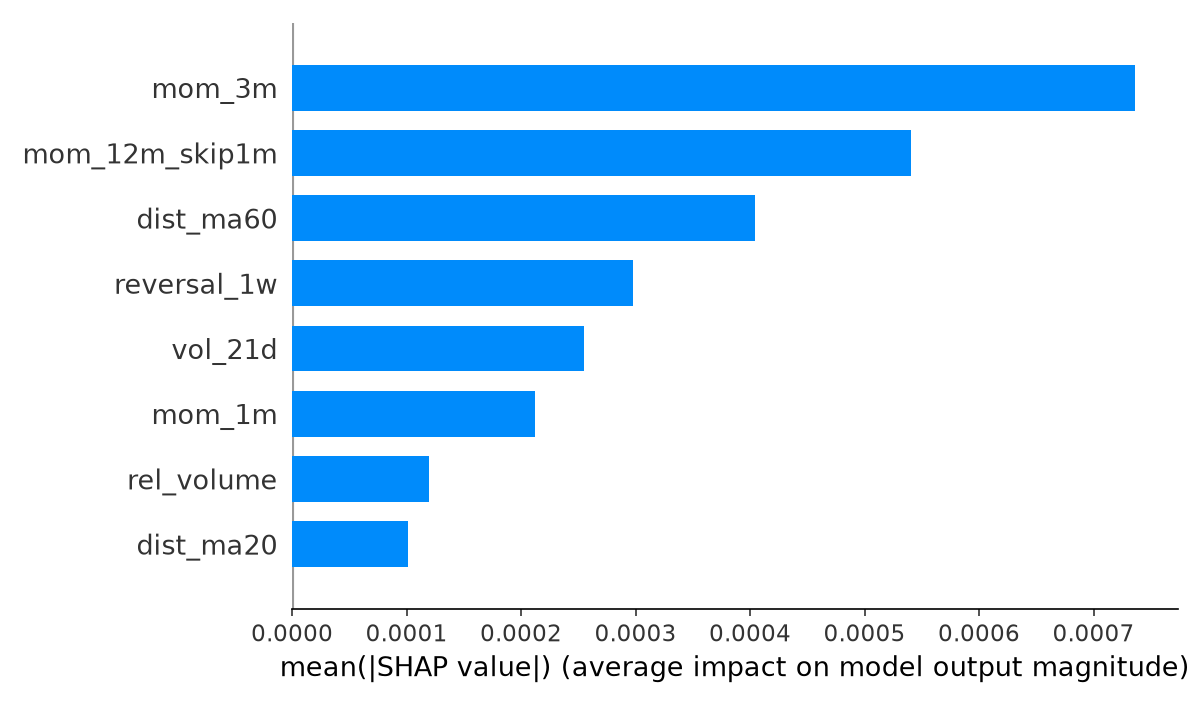
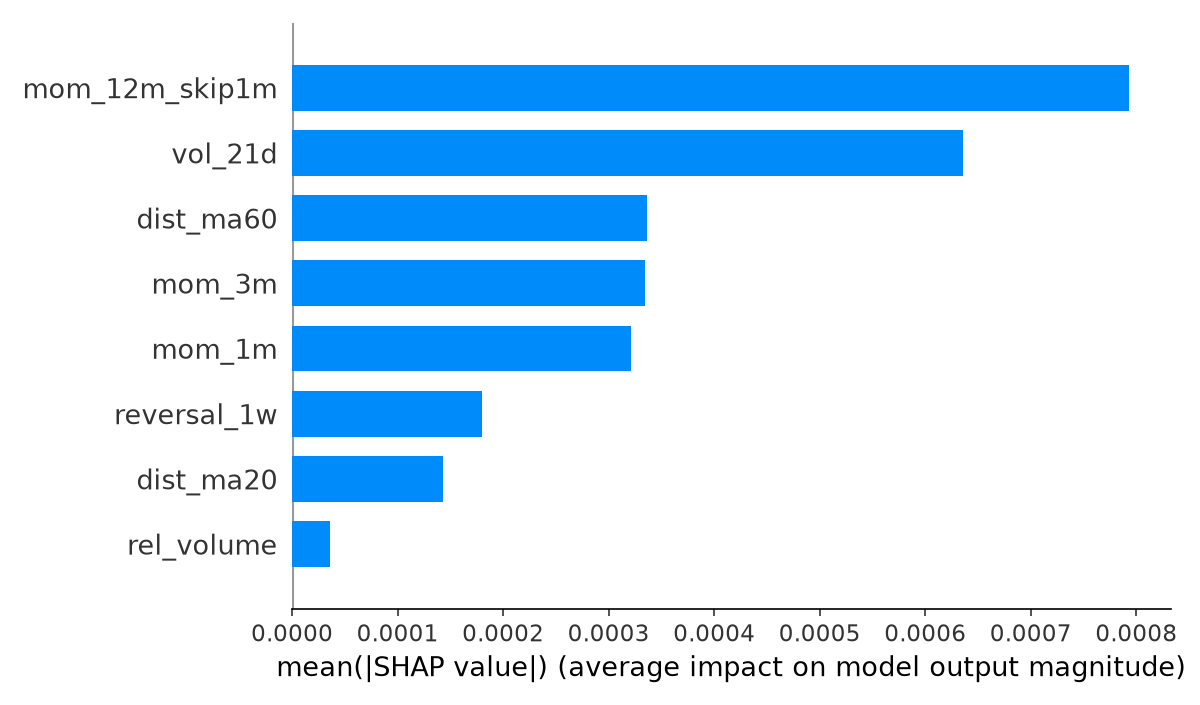
adjusting factor direction

diff --git a/factor_lib.py b/factor_lib.py
@@ -31,7 +31,7 @@ def momentum_12m_skip1m(prices: pd.DataFrame) -> pd.DataFrame:
 ## ── MEAN REVERSION FACTORS ────────────────────────────────────────
 
 def reversal_1w(prices: pd.DataFrame) -> pd.DataFrame:
-    raw = -prices.pct_change(5).shift(1)
+    raw = prices.pct_change(5).shift(1)
     return normalize(winsorize(raw))
 
 def distance_from_ma(prices: pd.DataFrame, window: int = 20) -> pd.DataFrame:
@@ -43,7 +43,7 @@ def distance_from_ma(prices: pd.DataFrame, window: int = 20) -> pd.DataFrame:
 
 def realized_vol(prices: pd.DataFrame, window: int = 21) -> pd.DataFrame:
     daily_ret = prices.pct_change()
-    raw = -daily_ret.rolling(window).std().shift(1)
+    raw = daily_ret.rolling(window).std().shift(1)
     return normalize(winsorize(raw))
 
 ## ── VOLUME FACTORS ────────────────────────────────────────────────

diff --git a/backtest.py b/backtest.py
@@ -21,8 +21,8 @@ def build_portfolio(predictions: pd.Series,
         q30 = sig.quantile(0.30)
         q70 = sig.quantile(0.70)
 
-        shorts  = sig[sig >= q70].index
-        longs = sig[sig <= q30].index
+        longs  = sig[sig >= q70].index
+        shorts = sig[sig <= q30].index
 
         if len(longs) == 0 or len(shorts) == 0:
             continue
